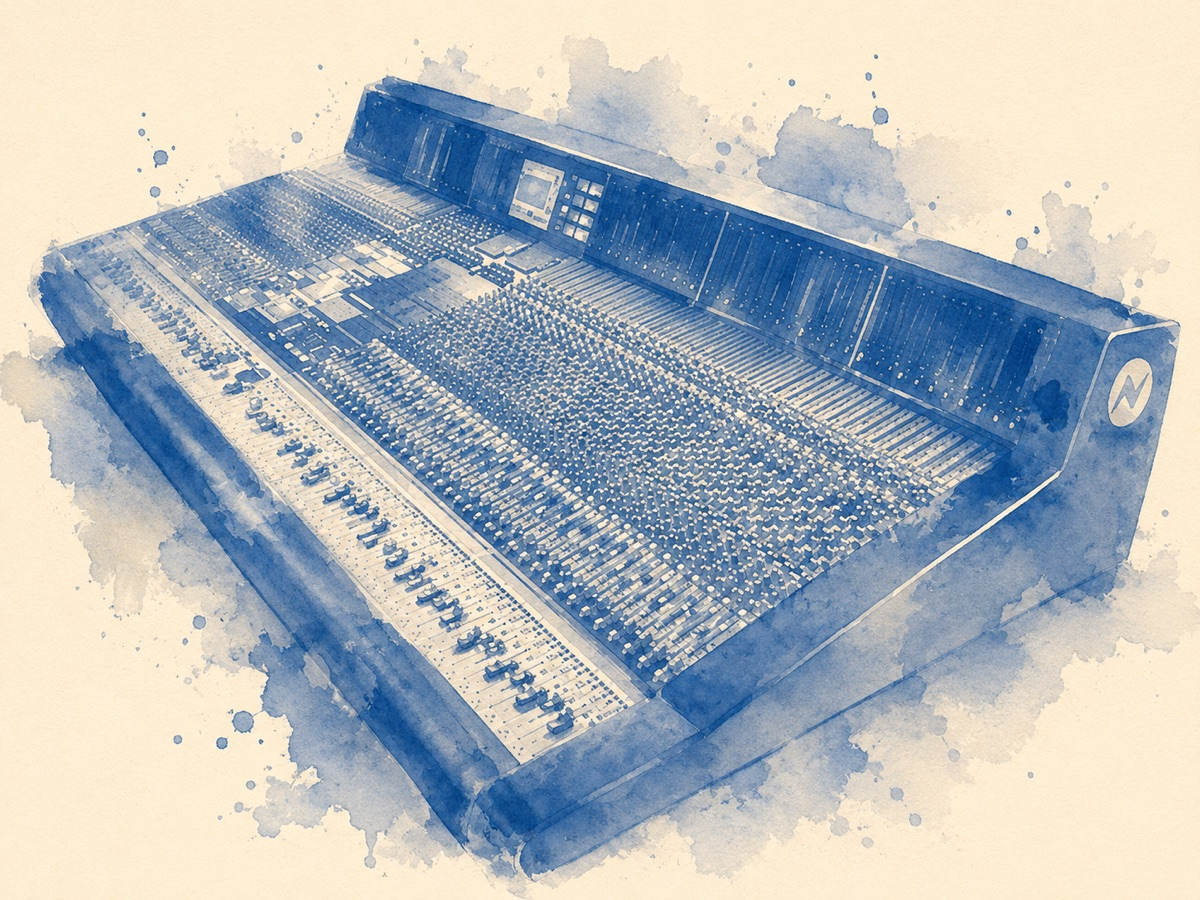
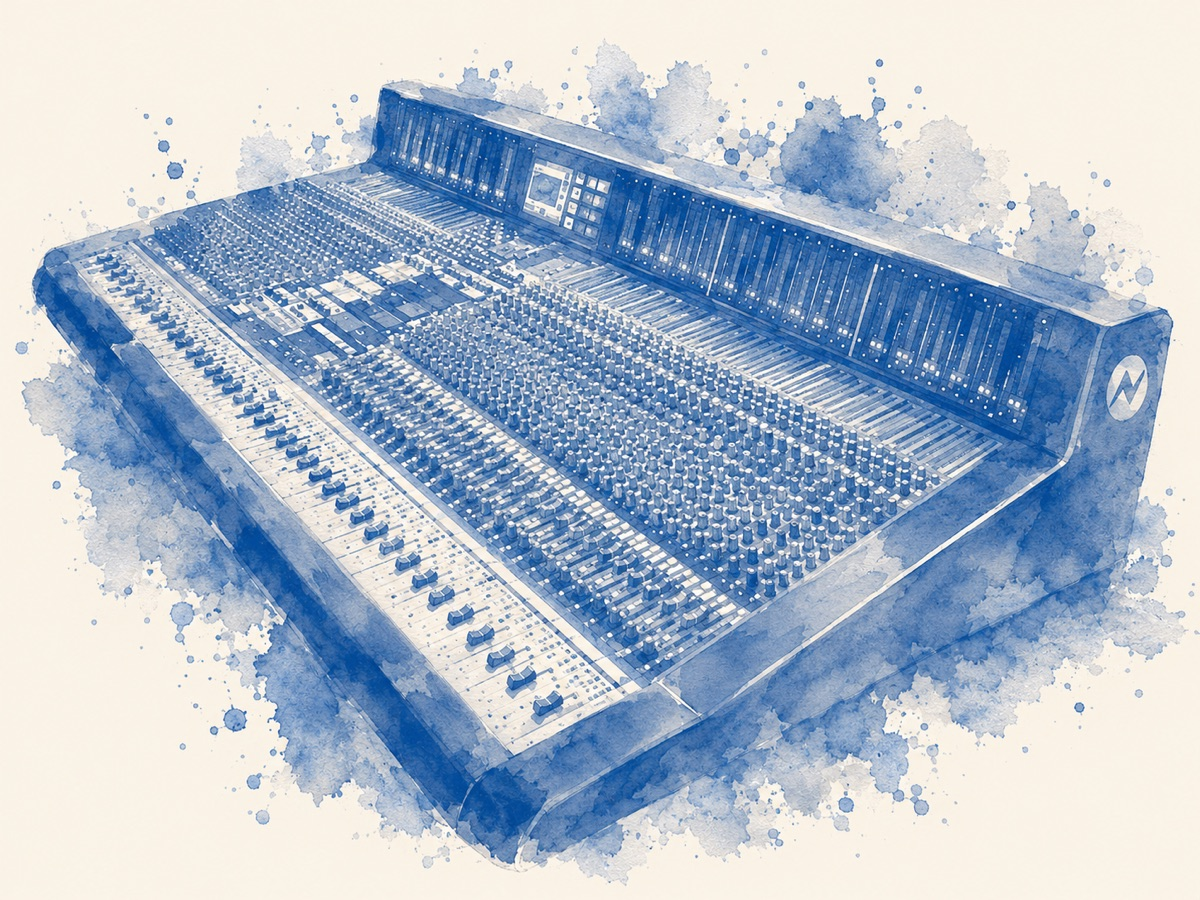
neve: neues Bild, Abstand zur Box, z-index unter Gradient

diff --git a/styles.css b/styles.css
@@ -422,6 +422,7 @@ h4 {
 .hero-img-wrap {
   background: transparent;
   overflow: hidden;
+  padding-left: clamp(1rem, 2vw, 2rem);
   opacity: 0;
   transform: translateY(6px);
   animation: fadeUp 280ms var(--ease-out) 120ms forwards;
@@ -434,6 +435,8 @@ h4 {
   display: block;
   opacity: 0.9;
   mix-blend-mode: multiply;
+  position: relative;
+  z-index: -1;
 }
 
 @media (max-width: 680px) {